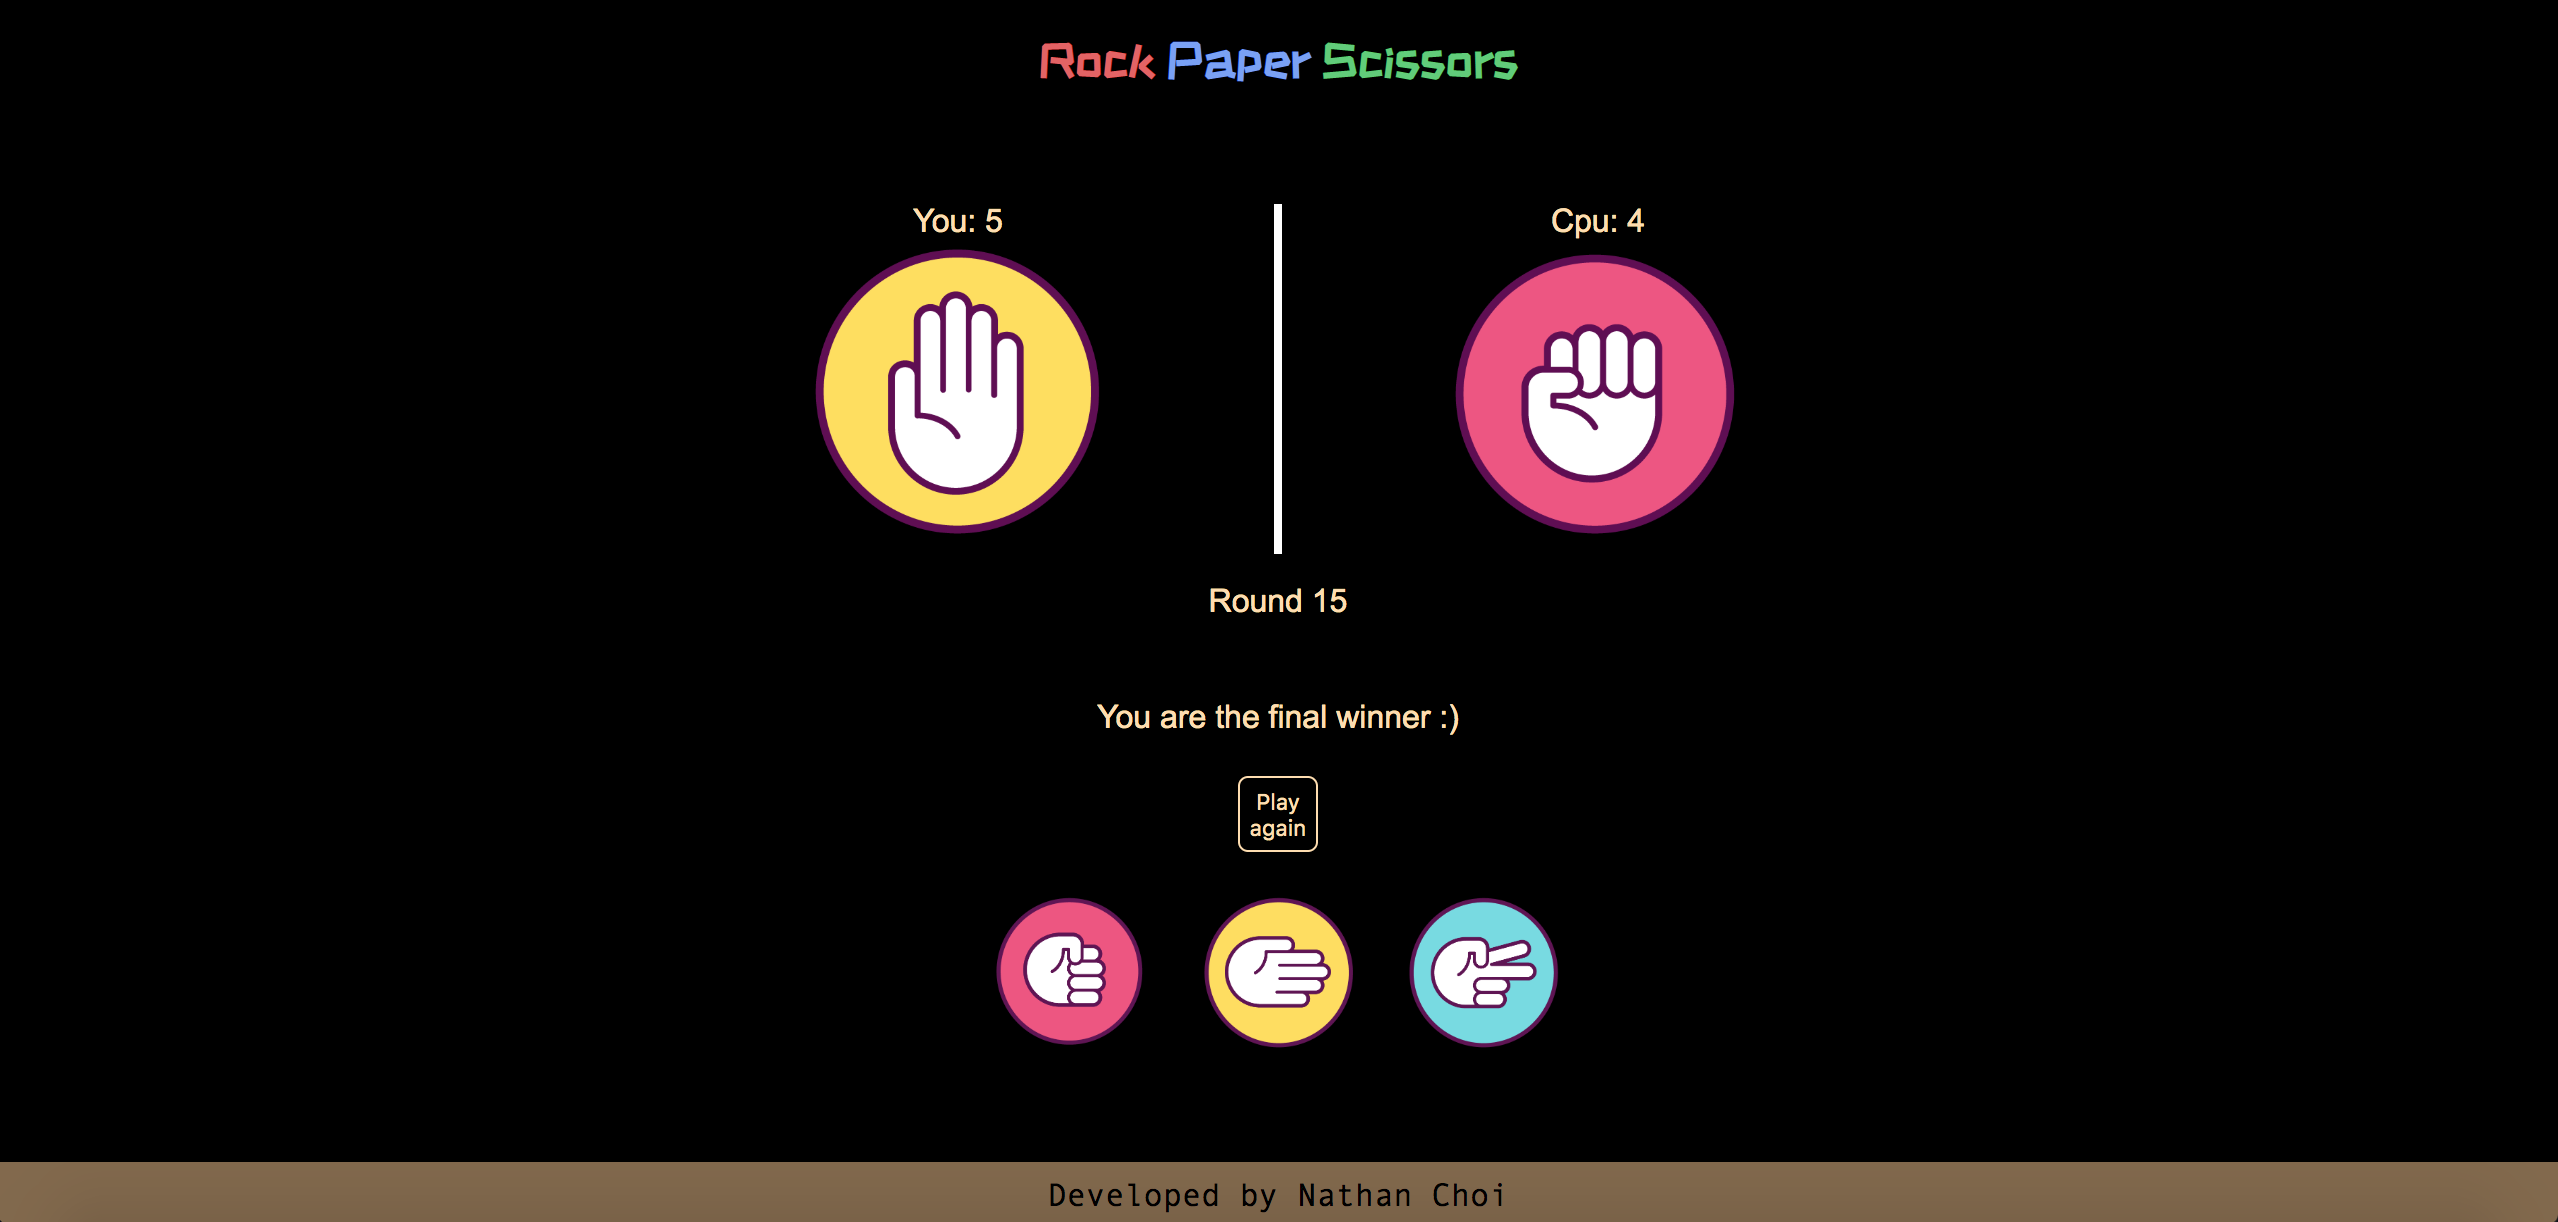
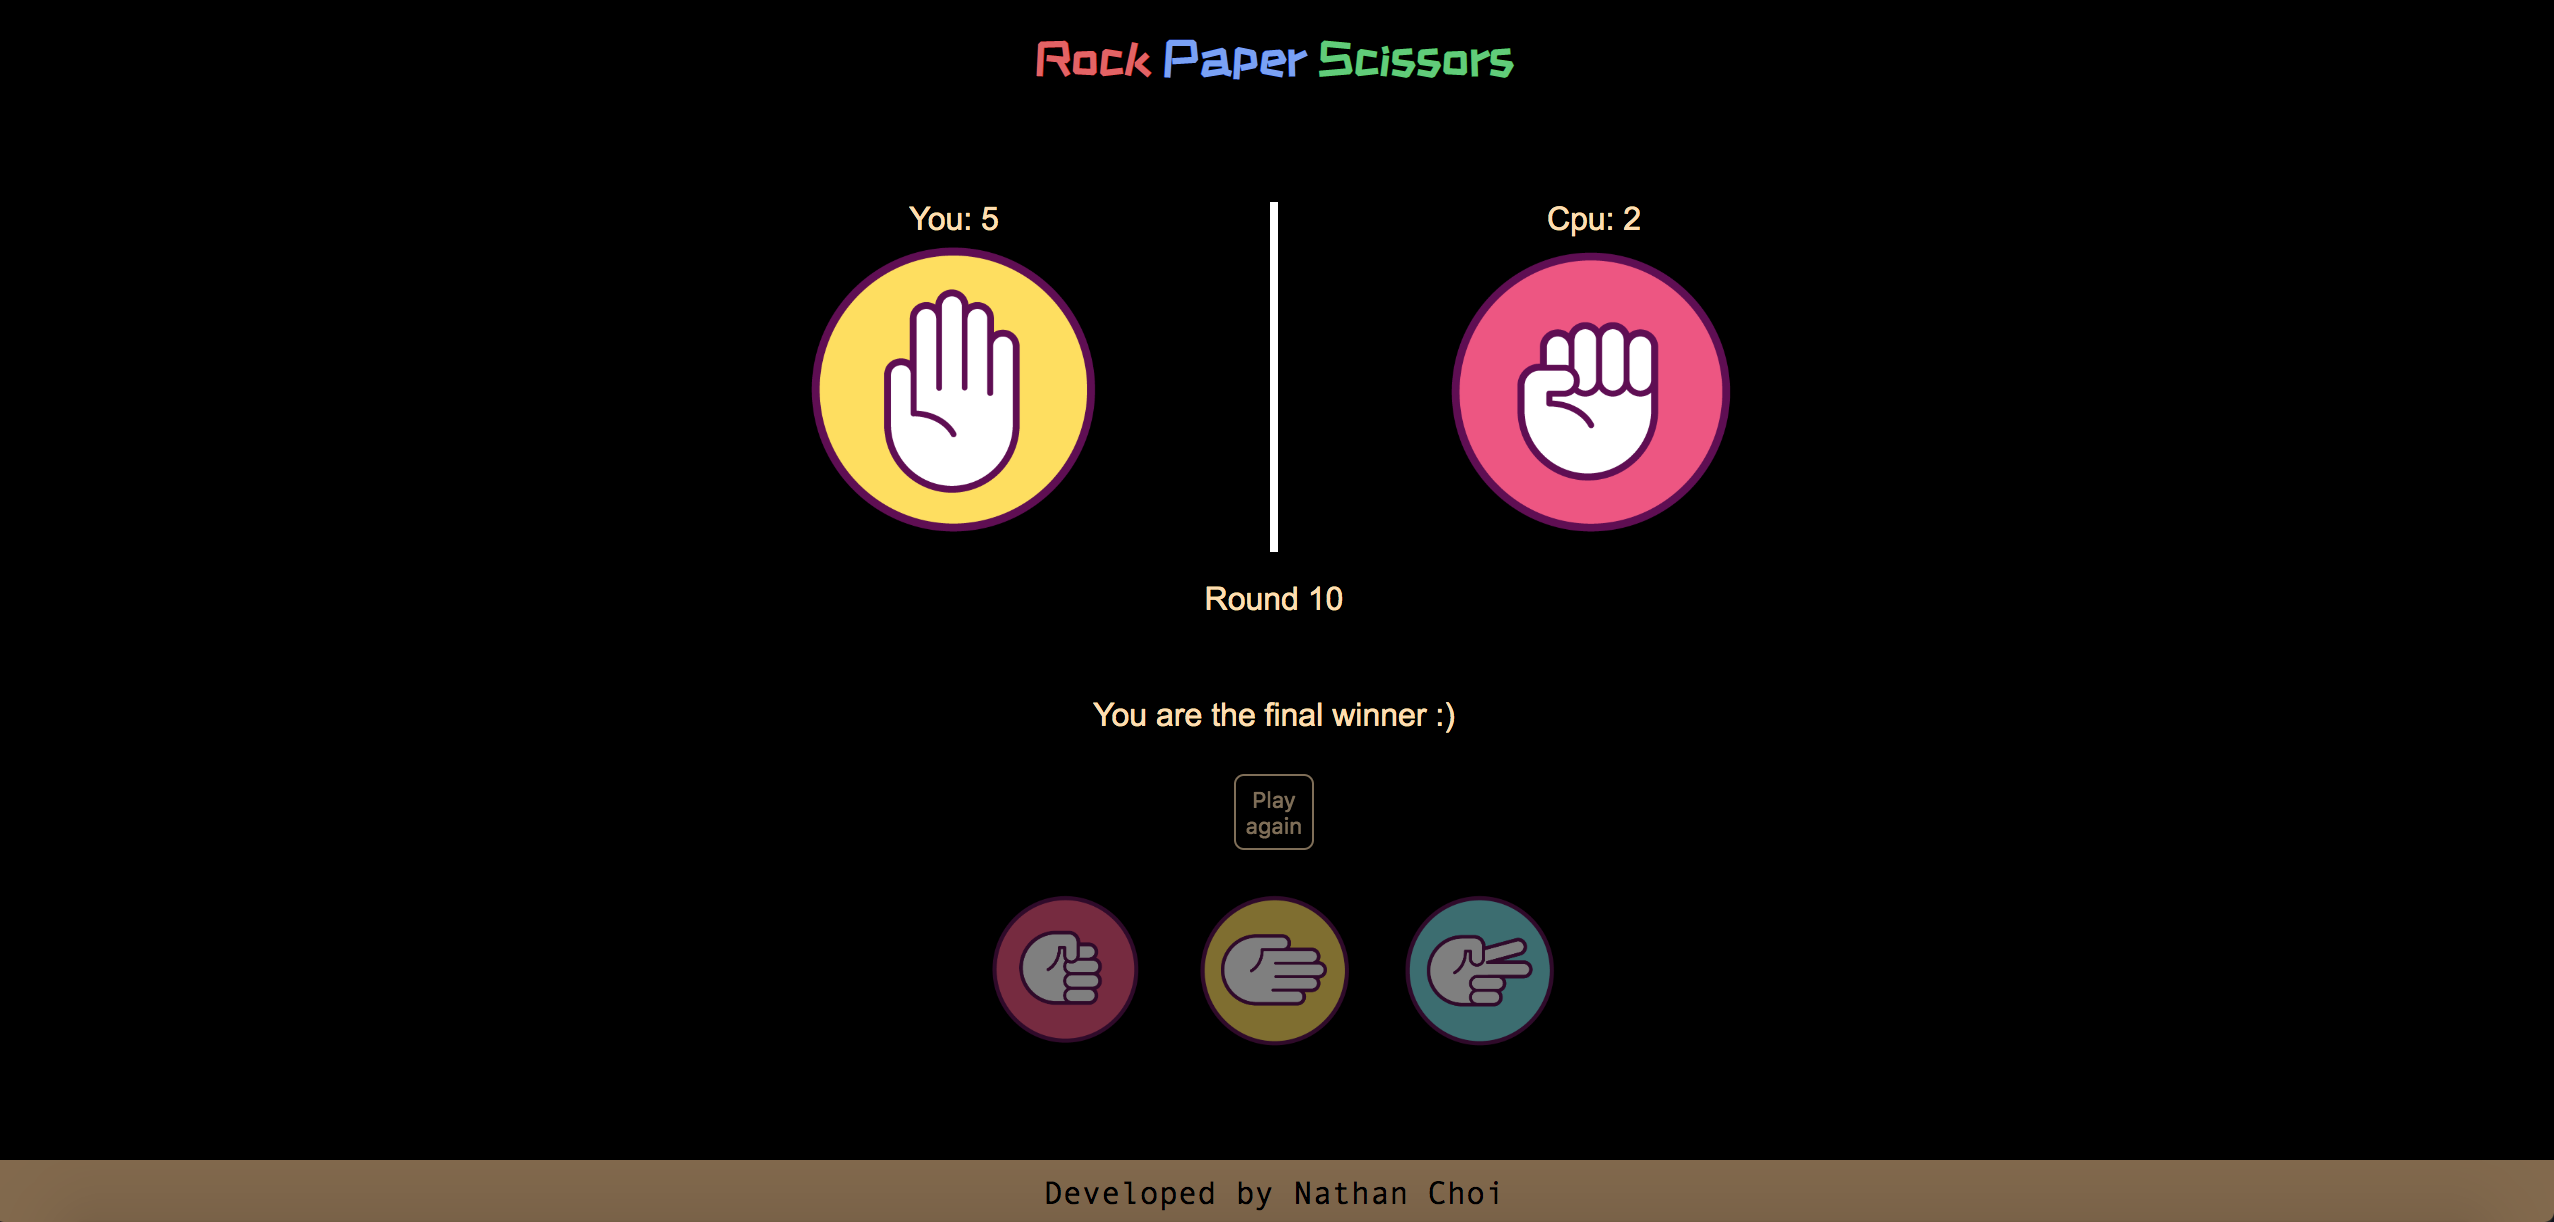
revised

diff --git a/assets/css/style.css b/assets/css/style.css
@@ -95,6 +95,7 @@ button {
     cursor: pointer;
     margin: 10px;
     transition: all 0.07s;
+    opacity: 0.5;
 }
 
 button:focus {
@@ -102,7 +103,7 @@ button:focus {
 }
 
 button:hover {
-    opacity: 0.5;
+    opacity: 1.0;
 }
 
 button img {
